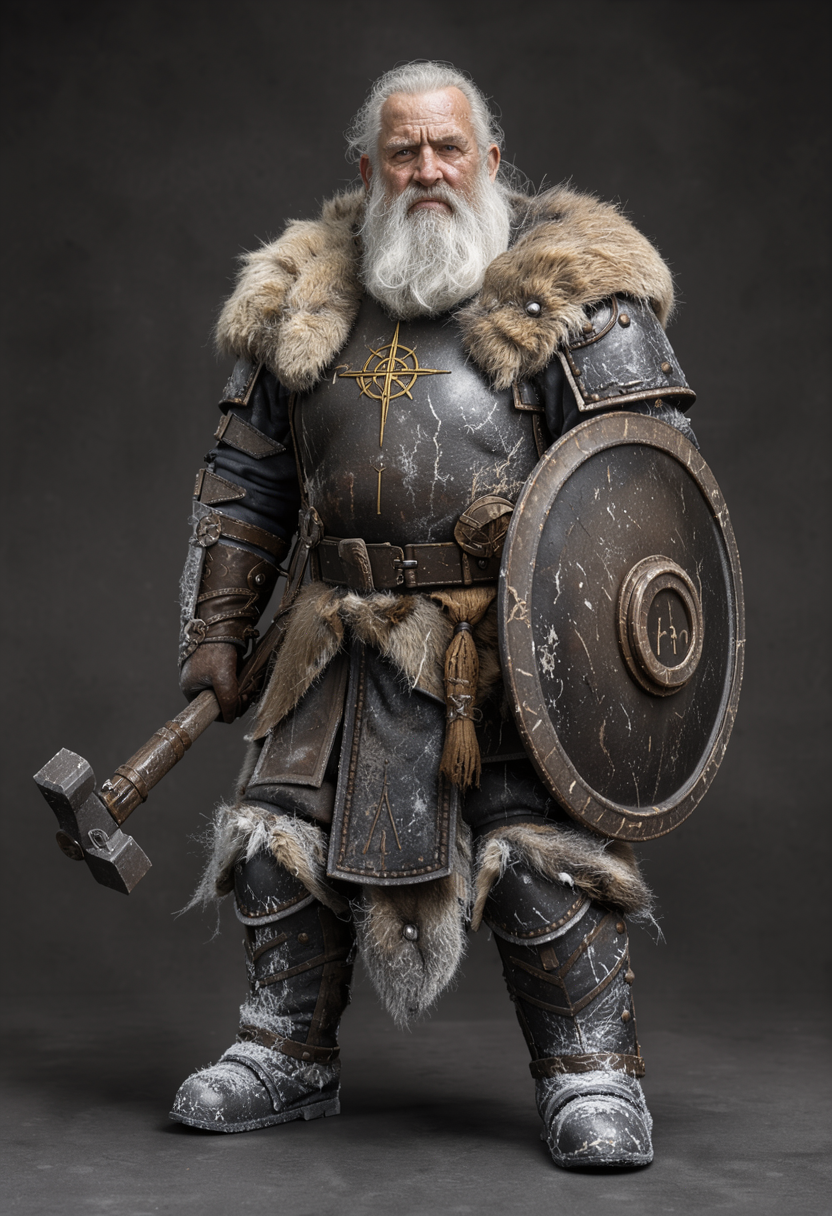
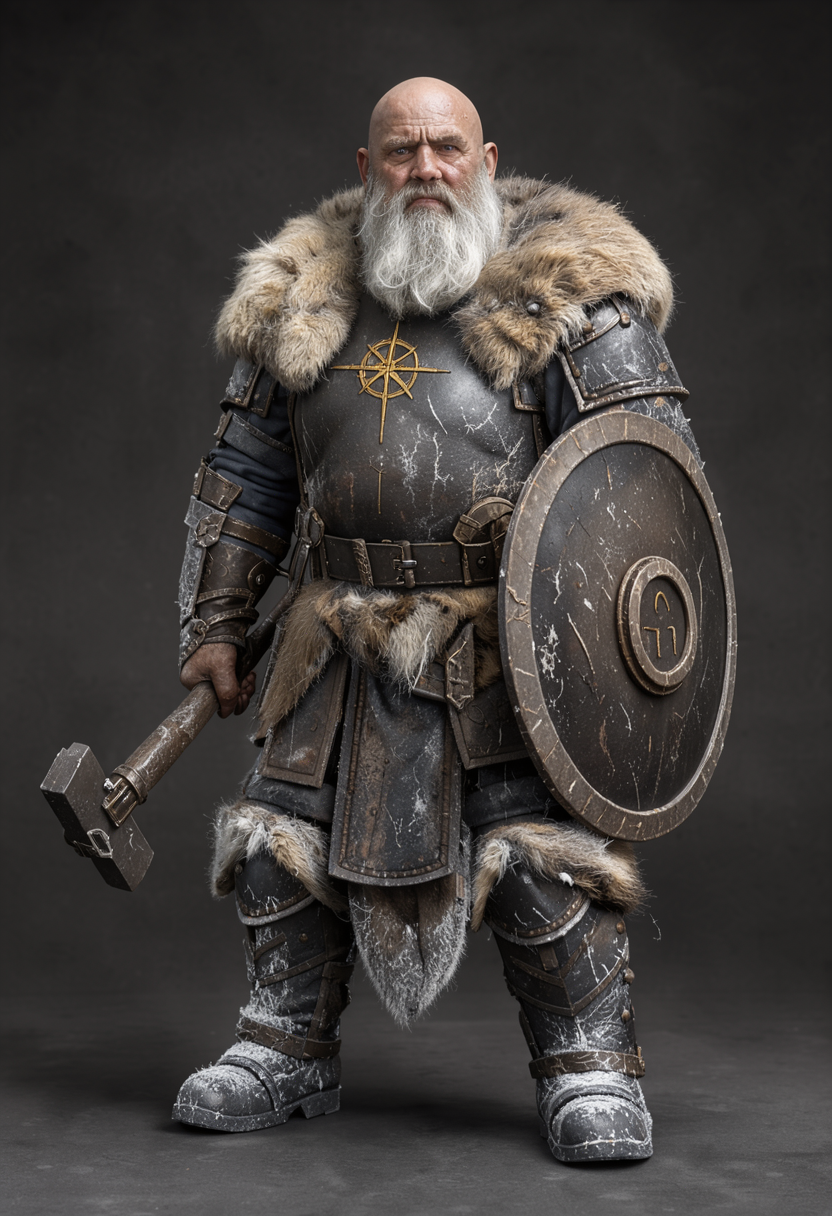
bible: Gulgrim is bald (portrait swap + locked chunk, user decision)

diff --git a/character-bible/bible.md b/character-bible/bible.md
@@ -35,7 +35,7 @@ Expression: loves a good mystery, convinced people are trying to steal his secre
 Default expression: secretive knowing intensity — guards his secrets, stern rather than smiling.
 
 ### Gulgrim Frozenboots — Male Hill Dwarf Cleric (James)
-`adult male hill dwarf cleric, short stocky, broad long white beard, heavy furs, frost-covered boots, large round shield with holy rune, warhammer`
+`adult male hill dwarf cleric, short stocky, completely bald head, broad long white beard, heavy furs, frost-covered boots, large round shield with holy rune, warhammer`
 Approved identity ref (2026-11-02, Flux3 Klein): `character-bible/approved_gulgrim_reference.png` — copy this look; face, gear, and expression approved in the Flux3 v1 portrait (full-body framing shows the frost boots).
 NEVER: tall, thin, no-beard.
 Gear: Holy Symbol + Biggins manor key (plot item), Mason's tools. Soldier background (Mintarn → Neverwinter watch, quit over corruption). Faith: Marthammor Du. Warhammer is canon (user decision — sheet's mace ignored).
